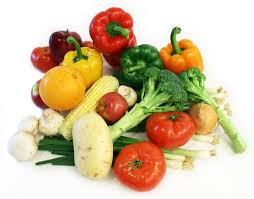
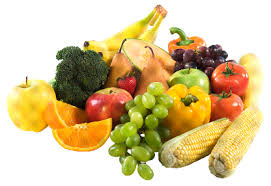
css

diff --git a/index.html b/index.html
@@ -18,7 +18,7 @@
 </head>
 <body>
 
-  <nav class="pink lighten-1" role="navigation">
+  <nav class="dark-purple lighten-1" role="navigation">
     <div class="nav-wrapper container"><a id="logo-container" href="#" class="brand-logo">Galvanize Delivers</a>
       <ul class="right hide-on-med-and-down">
         <li><a href="order.html">Order Delivery</a></li>
@@ -37,7 +37,7 @@
       <br><br>
       <h1 class="header center white-text">Organic, Delivered.</h1>
       <div class="row center">
-        <a href="order.html" id="download-button" class="btn-large waves-effect waves-light pink">PLACE AN ORDER</a>
+        <a href="order.html" id="download-button" class="btn-large waves-effect waves-light dark-purple">PLACE AN ORDER</a>
       </div>
       <br><br>
 
@@ -53,7 +53,7 @@
       <div class="row">
         <div class="col s12 m4">
           <div class="icon-block">
-            <h2 class="center pink-text"><i class="material-icons">shopping_basket</i></h2>
+            <h2 class="center dark-purple-text"><i class="material-icons">shopping_basket</i></h2>
             <h5 class="center">Shop Online</h5>
 
             <p class="light">Using our convenient web app, you'll get all the power of gFood without having to call your order in. Order in your pajamas, order 24 hours a day, order on Christmas, we're here to serve you.</p>
@@ -62,7 +62,7 @@
 
         <div class="col s12 m4">
           <div class="icon-block">
-            <h2 class="center pink-text"><i class="material-icons">local_shipping</i></h2>
+            <h2 class="center dark-purple-text"><i class="material-icons">local_shipping</i></h2>
             <h5 class="center">Fast Delivery</h5>
 
             <p class="light">You've never seen ordering this quick. Our proprietary ordering rocket ship delivery team allows you to spend less time being hungry, and more time doing what matters most to you. We'd ask what that is, but gFood respects your privacy.</p>
@@ -71,10 +71,10 @@
 
         <div class="col s12 m4">
           <div class="icon-block">
-            <h2 class="center pink-text"><i class="material-icons">local_atm</i></h2>
+            <h2 class="center dark-purple-text"><i class="material-icons">local_atm</i></h2>
             <h5 class="center">Great Deals</h5>
 
-            <p class="light">Money: You've got it, we want it. But let it never be said we're not incredibly fair! Burger sales? Check. Pizza sales? Check. Burger and pizza sales?? Check, check, check! We seriously can't stop making deals.</p>
+            <p class="light">Money: You've got it, we want it. But let it never be said we're not incredibly fair! Fruit sales? Check. Vegetable sales? Check. Fruit and vegetable sales?? Check, check, check! We seriously can't stop making deals.</p>
           </div>
         </div>
       </div>
@@ -87,12 +87,12 @@
     </div>
   </div>
 
-  <footer class="page-footer pink">
+  <footer class="page-footer dark-purple">
     <div class="container">
       <div class="row">
         <div class="col l6 m6 s12">
           <h5 class="white-text">Galvanize Delivers</h5>
-          <p class="grey-text text-lighten-4">Fine Dining, Delivered.</p>
+          <p class="grey-text text-lighten-4">Organic, Delivered.</p>
 
 
         </div>

diff --git a/order.html b/order.html
@@ -17,7 +17,7 @@
 
 <body>
 
-    <nav class="pink lighten-1" role="navigation">
+    <nav class="dark-purple lighten-1" role="navigation">
         <div class="nav-wrapper container"><a id="logo-container" href="#" class="brand-logo">Galvanize Delivers</a>
             <ul class="right hide-on-med-and-down">
                 <li><a href="order.html">Order Delivery</a></li>
@@ -123,6 +123,8 @@
                                 <td class="price total">Total</td>
                                 <td class="totaled"></td>
                             </tr>
+                            <tr>
+                            </tr>
                         </tfoot>
                     </table>
                 </div>
@@ -145,7 +147,7 @@
                         <label for="icon_business"></label>
                     </div>
                     <div class="input-field col s12 m12">
-                        <a href="thank-you.html" id="download-button" class="btn-large waves-effect waves-light pink waves-center">PLACE AN ORDER</a>
+                        <a href="thank-you.html" id="download-button" class="btn-large waves-effect waves-light dark-purple waves-center">PLACE AN ORDER</a>
                         <label for="submit"><input type="submit" name="" value="Submit"></label>
                     </div>
                 </form>
@@ -153,12 +155,12 @@
         </div>
     <!-- </div> -->
 </div>
-    <footer class="page-footer pink">
+    <footer class="page-footer dark-purple">
         <div class="container">
             <div class="row">
                 <div class="col l6 m6 s12">
                     <h5 class="white-text">Galvanize Delivers</h5>
-                    <p class="grey-text text-lighten-4">Fine Dining, Delivered.</p>
+                    <p class="grey-text text-lighten-4">Organic, Delivered.</p>
 
 
                 </div>

diff --git a/thank-you.html b/thank-you.html
@@ -18,7 +18,7 @@
 </head>
 <body>
 
-  <nav class="pink lighten-1" role="navigation">
+  <nav class="dark-purple lighten-1" role="navigation">
     <div class="nav-wrapper container"><a id="logo-container" href="#" class="brand-logo">Galvanize Delivers</a>
       <ul class="right hide-on-med-and-down">
         <li><a href="order.html">Order Delivery</a></li>
@@ -35,9 +35,9 @@
     <div class="section">
     <div class="container">
       <br><br>
-      <h1 class="header center white-text">Fine Dining, Delivered.</h1>
+      <h1 class="header center white-text">Organic, Delivered.</h1>
       <div class="row center">
-        <a href="order.html" id="download-button" class="btn-large waves-effect waves-light pink">PLACE AN ORDER</a>
+        <a href="order.html" id="download-button" class="btn-large waves-effect waves-light dark-purple">PLACE AN ORDER</a>
       </div>
       <br><br>
 
@@ -89,12 +89,12 @@
     </div>
   </div>
 
-  <footer class="page-footer pink">
+  <footer class="page-footer dark-purple">
     <div class="container">
       <div class="row">
         <div class="col l6 m6 s12">
           <h5 class="white-text">Galvanize Delivers</h5>
-          <p class="grey-text text-lighten-4">Fine Dining, Delivered.</p>
+          <p class="grey-text text-lighten-4">Organic, Delivered.</p>
 
 
         </div>

diff --git a/js/index.js b/js/index.js
@@ -29,7 +29,7 @@
       // let tax = (Number($('.sub').text()) * Number(.08995));
       //       console.log($('.sub').text());
       let tax = $('.taxed').text('$' + ($('.sub').text().slice(1) * 0.08995).toFixed(2));
-      $('.totaled').text('$' + (+$('.sub').text().slice(1) + +(tax.text().slice(1))));
+      $('.totaled').text('$' + (+$('.sub').text().slice(1) + +(tax.text().slice(1))).toFixed(2));
       // let buttons = $('.clicky');
 
     })

diff --git a/css/style.css b/css/style.css
@@ -30,7 +30,7 @@
 }
 
 #burger, #pie, #swine, #icecream {
-  background-color: yellow;
+  background-color: dark-purple;
   border-radius: 50px;
   font-family: 'Delius Unicase', cursive;
 }
@@ -58,7 +58,10 @@
 .page-footer {
   font-family: 'Delius Unicase', cursive;
 }
-/*.one_half { width:460px; }*/
+
+.row {
+  background-color: dark-purple;
+}
 
 
 /*.input-field_col_s6_m6 {
